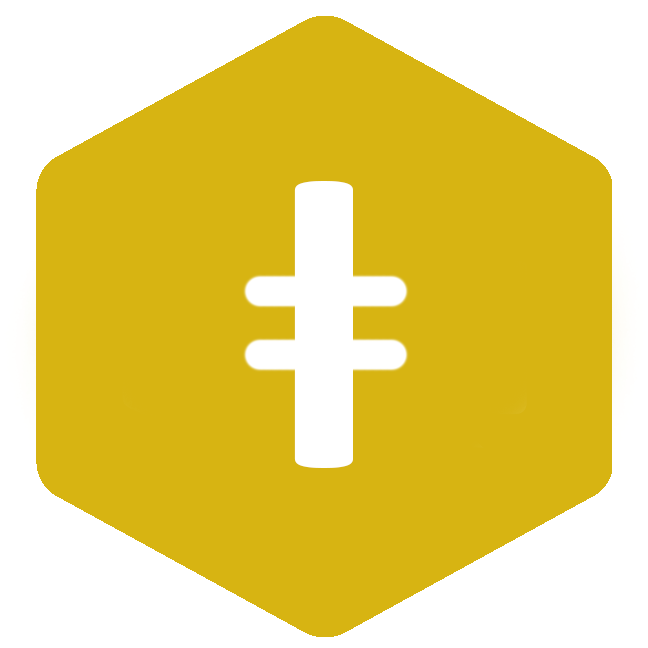
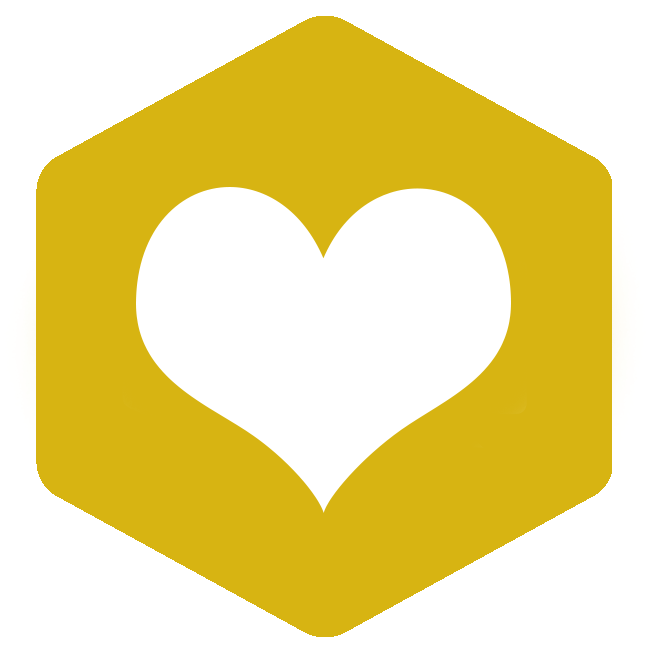
coins with life working

Changed region(s): [[0.1852, 0.2778, 0.8025, 0.8025]]

diff --git a/js/script.js b/js/script.js
@@ -13,9 +13,6 @@ $(document).ready(function () {
     game = new Game()
     gameWidth = $("#gamefield").width();
     gameHeight = $("#gamefield").height();
-    console.log("middle h " + gameHeight / 2)
-    console.log("middle w " + gameWidth / 2)
-
 
 
 
@@ -75,10 +72,10 @@ $(document).ready(function () {
 
 
 
-            //desturbing things
-            produceHittable(10, "comet", game.circleArray[2], 0.009, -1)
-            produceHittable(8, "comet", game.circleArray[3], 0.008, 1)
-            produceHittable(5, "planet", game.circleArray[4], 0.01, -1)
+            //desturbing things on start
+            produceHittable(10, "comet", game.circleArray[2], 0.007, -1)
+            produceHittable(8, "comet", game.circleArray[3], 0.006, 1)
+            produceHittable(5, "planet", game.circleArray[4], 0.008, -1)
 
 
 
@@ -102,7 +99,7 @@ $(document).ready(function () {
     }, 5)
 
 
-    // interaction functions
+    // Key functions for movements inside and outside
 
     $(window).keydown(function (event) {
         if (event.keyCode == 73 && !(game.circleArray.indexOf(me.currentCircle) == game.circleArray.length - 1)) {
@@ -123,6 +120,8 @@ $(document).ready(function () {
     });
 
 
+    // Collision checks with different things
+
     var collisionCheck = setInterval(function () {
 
         $(".comet, .planet").each(function () {
@@ -138,8 +137,6 @@ $(document).ready(function () {
 
                 }
 
-
-
             }
         })
 
@@ -150,7 +147,7 @@ $(document).ready(function () {
                 $(this).toggle(700)
                 game.collectedElements.push($(this))
                 game.collectibleElements.splice(game.collectibleElements.indexOf($(this)), 1);
-                console.log(game.collectibleElements[game.collectibleElements.length - 1])
+
 
                 // Show collected cards instead of placeholder
                 $("#ph" + game.collectedElements.length).hide(500);
@@ -162,7 +159,7 @@ $(document).ready(function () {
                 }, 2500)
 
 
-                // Game levels
+                // Game levels depending on amount of collected elements
                 if (game.collectedElements.length === 2) {
                     produceHittable(10, "planet", game.circleArray[1], 0.009, 1)
                 }
@@ -175,29 +172,21 @@ $(document).ready(function () {
             }
         })
 
+        // lifes up
+        if (coin !== undefined && hitCheck($(".coin"), $("#me"))) {
+            coin.hide()
+            coin.removeClass(".coin")
+            game.lives++
+            $("#hits").text("LIVES: " + game.lives)
+
+            var toggleCoin = setTimeout(function () {
+                coin.addClass("coin")
+                coin.css(randomPosition(game.circleArray))
+                coin.show(500)
+            }, 3000)
 
 
-        $(".coin").each(function () {
-
-            if (hitCheck($(this), $("#me"))) {
-
-                $(".coin").hide(500)
-                game.lives++;
-
-                var toggleCoin = setTimeout(function () {
-                    console.log($(".coin"))
-                    $(".coin").css(randomPosition(game.circleArray))
-                    $(".coin").show(500)
-
-                }, 1000)
-
-            }
-
-
-
-        })
-
-
+        }
 
 
     })

diff --git a/js/utils.js b/js/utils.js
@@ -55,7 +55,7 @@ function produceHtmlCircle(circle) {
         })
             .appendTo($("#" + id))
 
-            htmlCircle.css(randomPosition(game.circleArray))
+        htmlCircle.css(randomPosition(game.circleArray))
         htmlCircle.addClass("collectible")
 
     }
@@ -68,7 +68,7 @@ function produceHtmlCircle(circle) {
         })
             .appendTo($("#" + id))
 
-            htmlCircle.css(randomPosition(game.circleArray))
+        htmlCircle.css(randomPosition(game.circleArray))
 
         htmlCircle.addClass("collectible")
 
@@ -97,7 +97,7 @@ function produceHtmlCircle(circle) {
         })
             .appendTo($("#" + id))
 
-            htmlCircle.css(randomPosition(game.circleArray))
+        htmlCircle.css(randomPosition(game.circleArray))
 
         htmlCircle.addClass("collectible")
 
@@ -111,7 +111,7 @@ function produceHtmlCircle(circle) {
         })
             .appendTo($("#" + id))
 
-            htmlCircle.css(randomPosition(game.circleArray))
+        htmlCircle.css(randomPosition(game.circleArray))
         htmlCircle.addClass("collectible")
 
     }
@@ -123,7 +123,7 @@ function produceHtmlCircle(circle) {
         })
             .appendTo($("#" + id))
 
-            htmlCircle.css(randomPosition(game.circleArray))
+        htmlCircle.css(randomPosition(game.circleArray))
 
         htmlCircle.addClass("collectible")
 
@@ -136,7 +136,7 @@ function produceHtmlCircle(circle) {
         })
             .appendTo($("#" + id))
 
-            htmlCircle.css(randomPosition(game.circleArray))
+        htmlCircle.css(randomPosition(game.circleArray))
 
         htmlCircle.addClass("collectible")
 
@@ -149,9 +149,10 @@ function produceHtmlCircle(circle) {
         })
             .appendTo($("#" + id))
 
-            htmlCircle.css(randomPosition(game.circleArray))
+        htmlCircle.css(randomPosition(game.circleArray))
 
-        htmlCircle.addClass("coin")
+        htmlCircle.addClass("coin hitting")
+        htmlCircle.addClass("hitting")
 
     }
 
@@ -171,21 +172,21 @@ function randomPosition(circleArray) {
     // r = c.r
     // offsetLeft && offsetTop mit c.id
 
-    var r = circleArray[Math.floor(Math.random()*circleArray.length)].r;
+    var r = circleArray[Math.floor(Math.random() * circleArray.length)].r;
     var angle = Math.random() * Math.PI * 2;
 
     var x = Math.cos(angle) * r;
     var y = Math.sin(angle) * r;
 
     //var offsetLeft = $('#circle1')[0].offsetLeft;
-    console.log(r)
+
     //console.log("gameWidth ",  gameWidth/2-r)
     //var offsetTop = $('#circle1')[0].offsetTop;
 
-    var offsetLeft = gameWidth/2
-    var offsetTop = gameHeight/2
+    var offsetLeft = gameWidth / 2
+    var offsetTop = gameHeight / 2
 
-    return { top:  y + offsetTop - 25, left:  x + offsetLeft - 25 };
+    return { top: y + offsetTop - 25, left: x + offsetLeft - 25 };
 }
 
 
